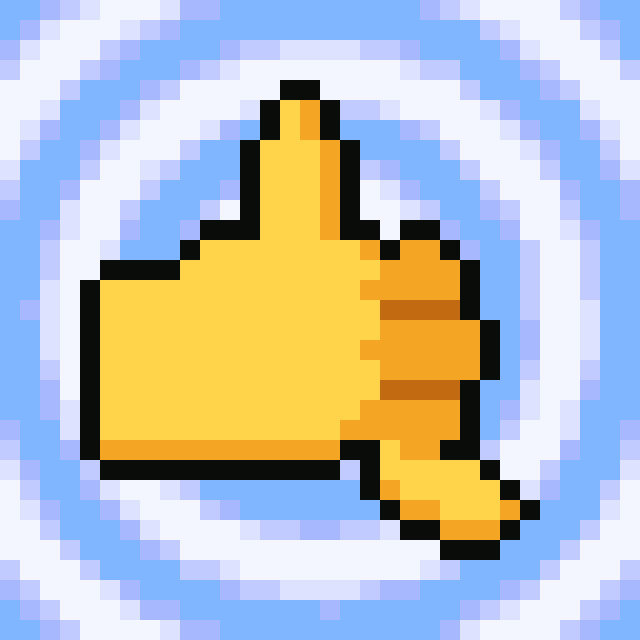
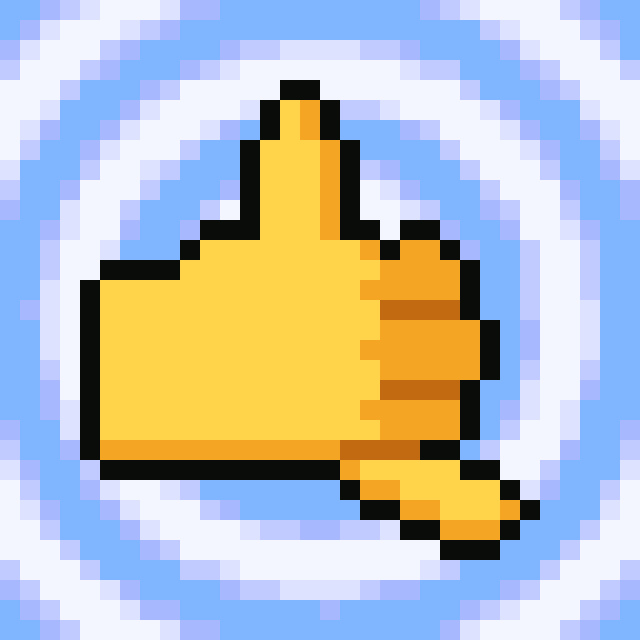
Аватарка: мизинец отдельным пальцем от ладони
Раньше мизинец начинался под безымянным пальцем и заходил на него, поэтому
выглядел его отростком. Теперь он отходит от нижнего края ладони, отделён от
безымянного тёмной линией, как остальные пальцы, и слегка сужен.

Changed region(s): [[0.5312, 0.6562, 0.6875, 0.8125], [0.7188, 0.6875, 0.75, 0.75]]

diff --git a/assets/make_avatar.py b/assets/make_avatar.py
@@ -25,9 +25,10 @@ SKIN = {"base": (255, 211, 74), "shade": (245, 165, 36), "deep": (194, 106, 18),
 # Рука в координатах эмодзи (квадрат 512x512, y вниз): контур каждой части.
 PALM = [(25, 225), (100, 215), (150, 170), (215, 155), (340, 165), (350, 395), (240, 425), (100, 402), (25, 402)]
 THUMB = [(215, 165), (222, 40), (235, 8), (262, 2), (285, 20), (293, 80), (288, 168)]
-FINGERS = [(335, 172, 440, 250), (335, 252, 455, 330), (335, 332, 440, 402)]  # x0, y0, x1, y1 с закруглением справа
-PINKY = [(345, 392), (400, 400), (490, 450), (506, 488), (480, 514), (430, 504), (345, 452)]
-DIVIDERS = [(338, 250, 440, 258), (338, 330, 450, 338)]  # тёмные линии между пальцами
+FINGERS = [(335, 172, 440, 250), (335, 252, 455, 330), (335, 332, 440, 392)]  # x0, y0, x1, y1 с закруглением справа
+# Мизинец — четвёртый палец: отходит от нижнего края ладони под безымянным и отделён от него линией.
+PINKY = [(300, 412), (400, 412), (486, 452), (504, 486), (484, 512), (438, 504), (300, 444)]
+DIVIDERS = [(338, 250, 440, 258), (338, 330, 450, 338), (300, 394, 430, 412)]  # тёмные линии между пальцами
 
 
 def rgb(h):
